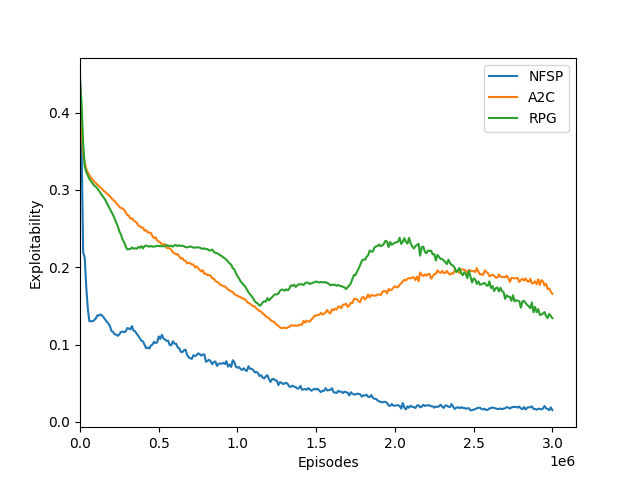
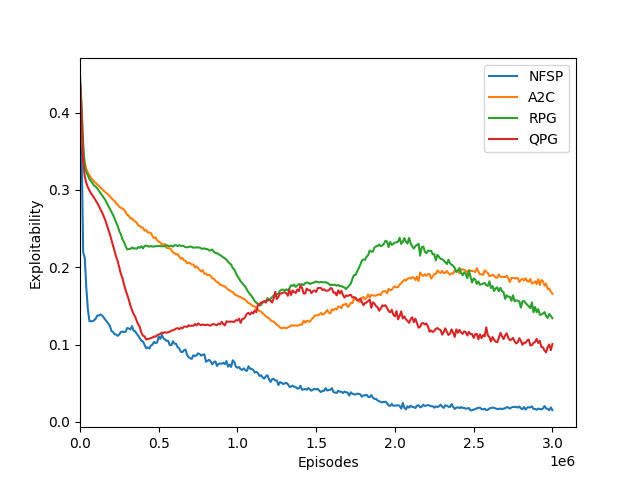
Add more data

diff --git a/mlp/Kuhn Poker/draw_graph.py b/mlp/Kuhn Poker/draw_graph.py
@@ -6,13 +6,15 @@ def draw_graph():
     arr = np.genfromtxt('data/nfsp_expl.csv')
     arr2 = np.genfromtxt('data/pg_a2c_expl.csv')
     arr3 = np.genfromtxt('data/pg_rpg_expl.csv')
+    arr4 = np.genfromtxt('data/pg_qpg_expl.csv')
     data_points = np.array([i*10000 for i in range(arr.size)])
     plt.plot(data_points, arr)
     plt.plot(data_points, arr2)
     plt.plot(data_points, arr3)
+    plt.plot(data_points, arr4)
     plt.ylabel('Exploitability')
     plt.xlabel('Episodes')
-    plt.legend(['NFSP', 'A2C', 'RPG'])
+    plt.legend(['NFSP', 'A2C', 'RPG', 'QPG'])
     plt.xlim(left=0)
     # plt.ylim(0, 1)
     # plt.show()
